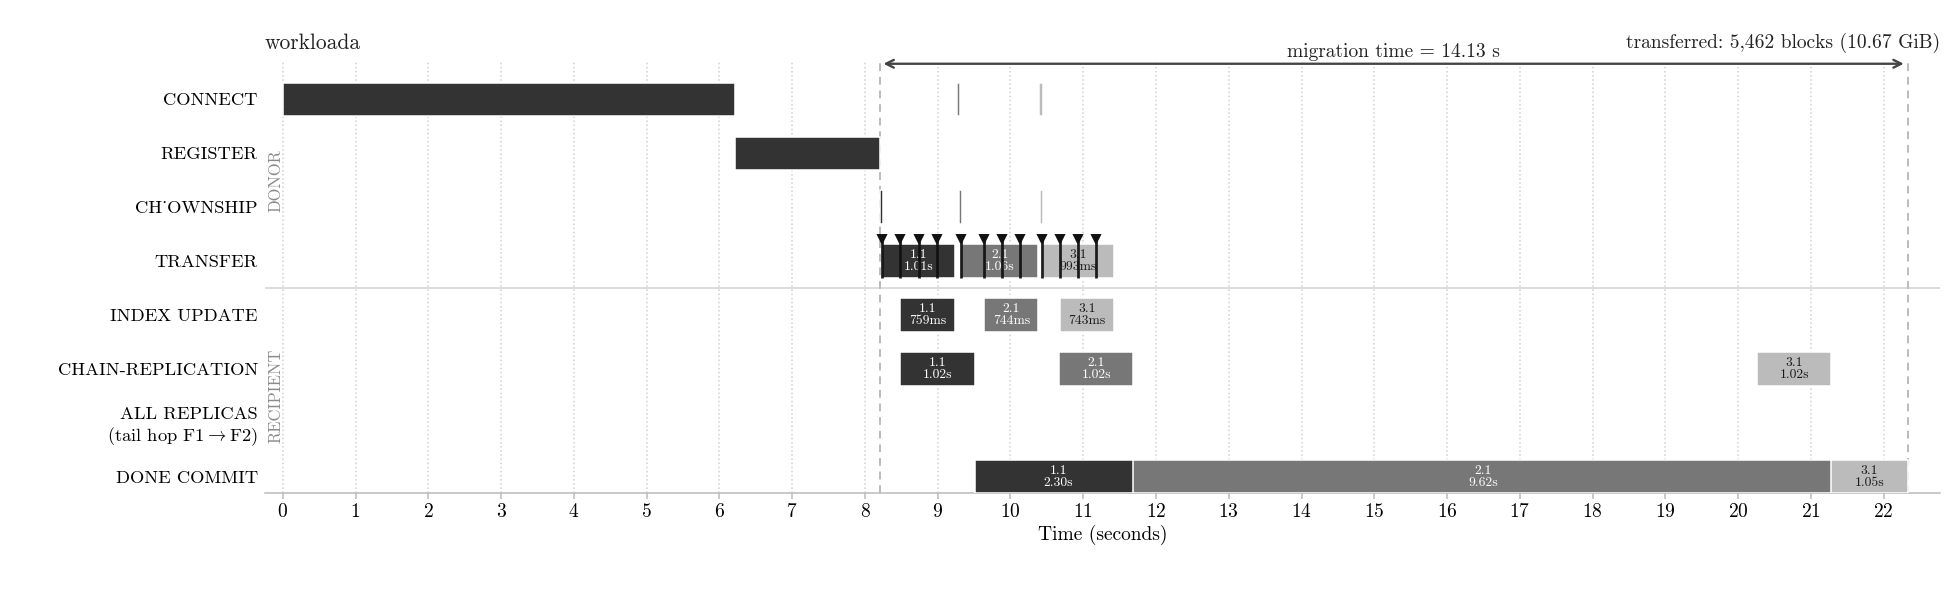
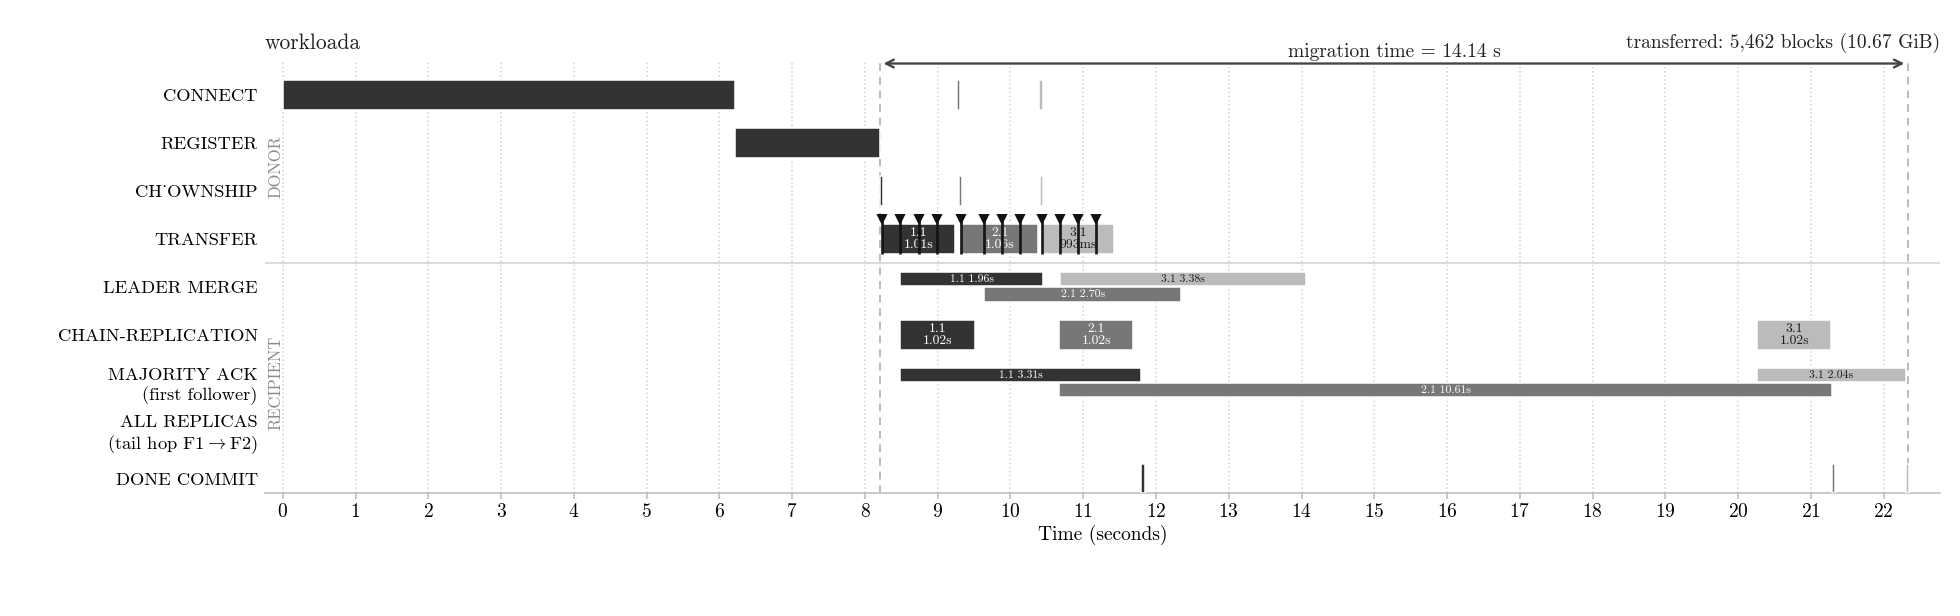
gantt: show the real merge end, majority ack and commit; end window at TXN_DONE
- LEADER MERGE (was "INDEX UPDATE") ends at the background merge's merge_done;
  "backpatch-merge: batch DONE" only means every chunk was staged, so the merge was
  drawn 0.75-2.2 s too short
- DONE COMMIT is the commit itself (from majority ack + merge done to RECP_TXN_DONE,
  a few ms); it used to run from the chain forward's end, so it showed merge waiting
- new MAJORITY ACK row (first follower's CHAIN-ACK)
- lanes whose sessions overlap in time draw in alternating half-height sub-lanes
  (a later bar used to hide an earlier one)
- migration window ends at the last donor TXN_DONE
- all Gantt figures in experiments/2026-09-28_crash_campaign regenerated

diff --git a/experiments/tools/plot_phase_gantt.py b/experiments/tools/plot_phase_gantt.py
@@ -56,6 +56,16 @@ bp_init = times(lambda l: "DONE-SLOTS-INIT: batch" in l and "total_slots" in l)
 # before any bytes exist. BACKPATCH cannot begin merging before this point.
 first_chunk = times(lambda l: "DONE-SLOTS-CHUNK" in l and " seq=0 " in l)
 mg_done = times(lambda l: "backpatch-merge: batch DONE" in l)
+# The leader's merge really ends at the background merge's "merge_done" line; "batch
+# DONE" only means every chunk has been staged. Use merge_done when the log has it.
+mg_real = times(lambda l: "bg-merge: session" in l and "merge_done" in l)
+# First follower ack per chain session = the batch is on a majority (leader + 1 of 2).
+_first_ack = {}
+for l in rlog:
+    m = re.search(r"CHAIN-ACK: sess=(\d+) .*\(count=(\d+)\)", l)
+    if m and m.group(1) not in _first_ack:
+        _first_ack[m.group(1)] = secs(l)
+maj_ack = sorted(_first_ack.values())
 ch_wrote = times(lambda l: "CHAIN: sess=" in l and " wrote " in l and " bytes" in l)
 commit  = times(lambda l: "RECP_TXN_DONE logged" in l)
 # The REAL chain-replication start: when the forwarder posts its first RDMA WRITE
@@ -114,8 +124,9 @@ for i, r in enumerate(rows):
         ri = r[1]
         # BACKPATCH: first chunk landed -> merge done (the real data-movement span).
         m_start = first_chunk[i] if i < len(first_chunk) else bp_init[i]
-        if i < len(mg_done):
-            r[2]["MERGE"] = [m_start, mg_done[i]]
+        merge_end = mg_real[i] if i < len(mg_real) else (mg_done[i] if i < len(mg_done) else None)
+        if merge_end is not None:
+            r[2]["MERGE"] = [m_start, merge_end]
         # CHAIN start = the REAL forward first-post (accurate; already reflects the
         # single-wire serialization). Fall back to the old estab/merge anchors only
         # for logs that predate the FIRST-POST marker.
@@ -132,8 +143,14 @@ for i, r in enumerate(rows):
         if i < len(ch_wrote):
             r[2]["CHAIN"]    = [c_start, ch_wrote[i]]
             prev_chain_end   = max(prev_chain_end, ch_wrote[i])
+            if i < len(maj_ack):
+                r[2]["ACK"] = [c_start, maj_ack[i]]
             if i < len(commit):
-                r[2]["COMMIT"]   = [ch_wrote[i], commit[i]]
+                # DONE COMMIT = the commit itself: from the moment it is allowed (majority
+                # ack AND leader merge done) to RECP_TXN_DONE. Usually a few ms.
+                ready = max(maj_ack[i] if i < len(maj_ack) else ch_wrote[i],
+                            merge_end if merge_end is not None else ch_wrote[i])
+                r[2]["COMMIT"] = [min(ready, commit[i]), commit[i]]
             if i < len(tail_ack):
                 r[2]["CHAINTAIL"] = [ch_wrote[i], tail_ack[i]]
         if i < len(mg_done) and i < len(commit):
@@ -154,14 +171,23 @@ done_last = max(_all_ends) if _all_ends else t0
 # sparse chain-"wrote" lines. With async-apply the MERGE/index-update drain
 # continues AFTER commit, so the x-axis (done_last) extends past mig_end — that's
 # expected, and keeps those late bars visible instead of clipped.
-mig_end = max(commit) if commit else \
-          max([s[k][1] for _,_,s in rows for k in ("MERGE","TRANSFER") if k in s])
+# Migration window end = the last donor's TXN_DONE (the donor closes its session
+# once the recipient reports done); falls back to the last RECP_TXN_DONE.
+_txn_done = []
+for _sg, _host, _suf in DONORS:
+    _p = expdir / "logs" / _host / "tmp" / "redis_logs" / f"{_host}_{_suf}.log"
+    if _p.exists():
+        _txn_done += [secs(l) for l in _p.read_text(errors="ignore").splitlines()
+                      if "RAFT.MGN-LOG TXN_DONE logged" in l]
+mig_end = max(_txn_done) if _txn_done else (max(commit) if commit else
+          max([s[k][1] for _,_,s in rows for k in ("MERGE","TRANSFER") if k in s]))
 
-PHASES = ["PREP","REGISTERING","FLIPPING","TRANSFER","MERGE","CHAIN","CHAINTAIL","COMMIT"]
+PHASES = ["PREP","REGISTERING","FLIPPING","TRANSFER","MERGE","CHAIN","ACK","CHAINTAIL","COMMIT"]
 LANE_Y = {ph: i for i, ph in enumerate(reversed(PHASES))}
 LABEL = {"PREP":"CONNECT","REGISTERING":"REGISTER",
          "FLIPPING":"CH_OWNSHIP","TRANSFER":"TRANSFER",
-         "MERGE":"INDEX UPDATE","CHAIN":"CHAIN-REPLICATION",
+         "MERGE":"LEADER MERGE","CHAIN":"CHAIN-REPLICATION",
+         "ACK":"MAJORITY ACK\n(first follower)",
          "CHAINTAIL":"ALL REPLICAS\n(tail hop F1$\\rightarrow$F2)","COMMIT":"DONE COMMIT"}
 
 import matplotlib.patheffects as pe
@@ -236,23 +262,37 @@ for (rd, seq, t) in bp_raw:
 PHASE_CK = {"TRANSFER": tr_ck, "MERGE": bp_ck, "CHAIN": ch_ck}
 
 # --- bars (sharp) + labels
-for sg, ri, s in rows:
+# A lane whose consecutive sessions overlap in time (e.g. a session's tail ack lands
+# after the next session's forward starts) draws its bars in two half-height
+# sub-lanes, alternating, so a later bar never hides an earlier one.
+_overlap = {}
+for ph in PHASES:
+    spans = [s[ph] for _, _, s in rows if ph in s and s[ph][1] is not None]
+    _overlap[ph] = any(spans[k][0] < spans[k-1][1] - 1e-6 for k in range(1, len(spans)))
+for idx, (sg, ri, s) in enumerate(rows):
     for ph in PHASES:
         if ph not in s or s[ph][1] is None: continue
         a, b = s[ph]; y = LANE_Y[ph]; w = b-a
+        bar_h = BAR_H
+        if _overlap.get(ph):
+            bar_h = BAR_H * 0.48
+            y = y + (BAR_H * 0.26 if idx % 2 == 0 else -BAR_H * 0.26)
         is_cold = (ph == "CHAIN" and s.get("_cold"))
         ec = COLD_EC if is_cold else "white"
         # min rendered width so sub-pixel phases (FLIPPING ~12ms, DONE COMMIT
         # ~4ms) stay visible; the in/over-bar label always shows the TRUE ms.
         draw_w = w if w >= 0.05 else 0.05
-        ax.barh(y, draw_w, left=a-t0, height=BAR_H, color=SG_GRAY[sg],
+        ax.barh(y, draw_w, left=a-t0, height=bar_h, color=SG_GRAY[sg],
                 edgecolor=ec, linewidth=2.4 if is_cold else 0.8, zorder=4)
         # CONNECT (PREP) / REGISTER (REGISTERING) bars are left unlabelled.
         if ph in ("PREP", "REGISTERING"):
             continue
         dlabel = f"{w:.2f}s" if w >= 1 else f"{w*1000:.0f}ms"
         txtcol = SG_TXT[sg]
-        if w > 0.22:
+        if w > 0.22 and bar_h < BAR_H:
+            ax.text((a-t0)+w/2, y, f"{sg[-1]}.{ri} {dlabel}", ha="center", va="center",
+                    fontsize=6, color=txtcol, zorder=6, fontweight="bold")
+        elif w > 0.22:
             ax.text((a-t0)+w/2, y, f"{sg[-1]}.{ri}\n{dlabel}", ha="center", va="center",
                     fontsize=7, color=txtcol, zorder=6, linespacing=1.0, fontweight="bold")
         elif w > 0.05:
